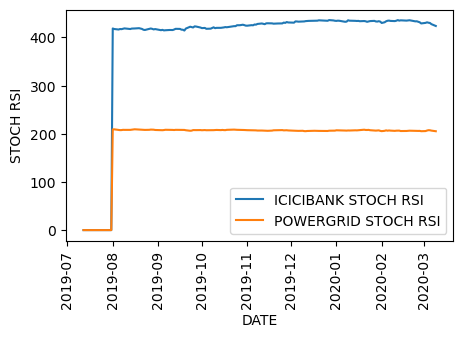
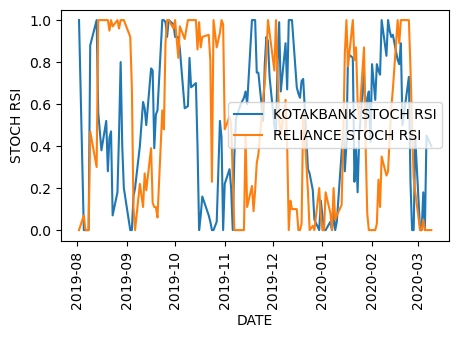
Data Formatting

diff --git a/modules/pair_strategy/pair_strategy.py b/modules/pair_strategy/pair_strategy.py
@@ -131,7 +131,7 @@ def calculate_short_position(i, instru, shares, stoploss, target, logs, edgecase
       if logs : print_logs.append(str("Bought {0} shares at Rs.{1}".format(shares, round(curr_day_price*(1 - target),2))))
 
     # Profit Loss Statement
-      ignored_gain = round((next_day_price - curr_day_price),2)
+      ignored_gain = round((curr_day_price - next_day_price),2)
       if logs : print_logs.append(str("If ignored Target then Gain : Rs.") + str(round(ignored_gain*shares,2)))
 
     # No Stoploss and No Target hit
@@ -146,7 +146,7 @@ def calculate_short_position(i, instru, shares, stoploss, target, logs, edgecase
         print_logs.append(str("Gain of Rs.{0} or {1}% on Rs.{2}".format(gain_loss, round(gain_loss*100/capital,2), capital)))
       else :
         print_logs.append(str("Loss of Rs.{0} or {1}% on Rs.{2}".format(gain_loss, round(gain_loss*100/capital,2), capital)))
-      print_logs.append(str("---------------------------------------------------"))
+      print_logs.append(str("-------------------------------------------------------------------"))
 
     return round(gain_loss,2), print_logs
 
@@ -159,6 +159,7 @@ def pair_strategy(concat_df, instru1, instru2, stoploss, target, logs, edgecase,
     for i in range(rows): 
       gain_loss_1 = 0
       gain_loss_2 = 0
+
 
       # Instru1 Short and Instru2 Long Case
       if (((instru1.iloc[i][3] >= higher_rsi ) and (instru1.iloc[i][0] >= instru1.iloc[i][2])) and 
@@ -231,7 +232,7 @@ def pair_strategy(concat_df, instru1, instru2, stoploss, target, logs, edgecase,
             logs_report.append(str("Overall Gain of Rs.{0} or {1}% on Rs.100000".format(res, round(res/1000,2))))
           else :
             logs_report.append(str("Overall Loss of Rs.{0} or {1}% on Rs.100000".format(res, round(res/1000,2))))
-          logs_report.append(str("================================================="))
+          logs_report.append(str("=========================================================================="))
 
         pnl.append([i,res])
 

diff --git a/modules/visualization/result_graph/result_graph.py b/modules/visualization/result_graph/result_graph.py
@@ -7,21 +7,28 @@ def get_result_graph(instru1, instru2):
 
   print(instru1.columns)
   plt.figure(figsize=(5,3)) 
-  plt.ylabel("CLOSING PRICES")
+  plt.ylabel("CLOSING PRICES " + instru1.columns[0])
   plt.xticks(rotation=90)
-  sns.lineplot(x=instru1.index, y=instru1[instru1.columns[0]], label= instru1_close + " Closing Price")
-  sns.lineplot(x=instru1.index, y=instru1[instru1.columns[1]], label= instru1_close + " SMA")
-  sns.lineplot(x=instru2.index, y=instru2[instru2.columns[0]], label= instru2_close + " Closing Price")
-  sns.lineplot(x=instru2.index, y=instru2[instru2.columns[1]], label= instru2_close + " SMA")
-  plt.savefig('images/closing.png',bbox_inches = 'tight')
+  sns.lineplot(x=instru1.index, y=instru1[instru1.columns[0]], label= "Closing Price")
+  sns.lineplot(x=instru1.index, y=instru1[instru1.columns[1]], label=  "SMA")
+  sns.lineplot(x=instru1.index, y=instru1[instru1.columns[2]], label= "EMA")
+  plt.savefig('images/closing1.png',bbox_inches = 'tight')
   plt.show()
-  
+
+  plt.figure(figsize=(5,3)) 
+  plt.ylabel("CLOSING PRICES " + instru2.columns[0])
+  plt.xticks(rotation=90)
+  sns.lineplot(x=instru2.index, y=instru2[instru2.columns[0]], label= "Closing Price")
+  sns.lineplot(x=instru2.index, y=instru2[instru2.columns[1]], label= "SMA")
+  sns.lineplot(x=instru2.index, y=instru2[instru2.columns[2]], label= "EMA")
+  plt.savefig('images/closing2.png',bbox_inches = 'tight')
+  plt.show()  
 
   plt.figure(figsize=(5,3)) 
   plt.ylabel("STOCH RSI")
   plt.xticks(rotation=90)
-  sns.lineplot(x=instru1.index, y=instru1[instru1.columns[2]], label= instru1_close + " STOCH RSI")
-  sns.lineplot(x=instru2.index, y=instru2[instru2.columns[2]], label= instru2_close + " STOCH RSI")
+  sns.lineplot(x=instru1.index, y=instru1[instru1.columns[3]], label= instru1_close + " STOCH RSI")
+  sns.lineplot(x=instru2.index, y=instru2[instru2.columns[3]], label= instru2_close + " STOCH RSI")
   plt.savefig('images/rsi.png',bbox_inches = 'tight')
   plt.show()
   

diff --git a/app.py b/app.py
@@ -141,19 +141,26 @@ def display_report(id1, id2 , stoploss, target , logs, edgecase):
         instru1 = get_instrument_data(id1)
         instru2 = get_instrument_data(id2)
         pnl,logs_report = pair_strategy(concat_df,instru1, instru2, stoploss/100, target/100, logs, edgecase, lower_rsi=low_rsi,higher_rsi=high_rsi)
-        get_result_graph(instru1,instru2)
-    
+        get_result_graph(instru1[time_period:],instru2[time_period:])    
         pdf = FPDF()
         pdf.add_page()
-        pdf.set_font("Arial", size = 16, style='B')
+        pdf.set_font("Times", size = 16, style='B')
         pdf.cell(200, 10, txt = "PAIR STRATEGY REPORT" ,ln = 1, align = 'C')
-        pdf.image("images/closing.png")
+
+        pdf.set_font("Times", size = 8,style='B')
+        pdf.cell(200, 10, txt = instru1.columns[0] , ln = 1, align = 'C')
+        pdf.image("images/closing1.png")
+
+        pdf.cell(200, 10, txt = instru2.columns[0] , ln = 1, align = 'C')
+        pdf.image("images/closing2.png")
+
+        pdf.cell(200, 10, txt = "STOCH RSI" , ln = 1, align = 'C')
         pdf.image("images/rsi.png")
+
         pdf.add_page()
-        pdf.set_font("Arial", size = 8)
+        pdf.set_font("Times", size = 10)
         for ind,text in enumerate(logs_report):
             pdf.multi_cell(200, 10, txt = text , align = 'L')
-
         st.download_button("Download Report", data=pdf.output(dest='S').encode('latin-1'), file_name="PnL_Report.pdf")    
         st.stop()  
            
